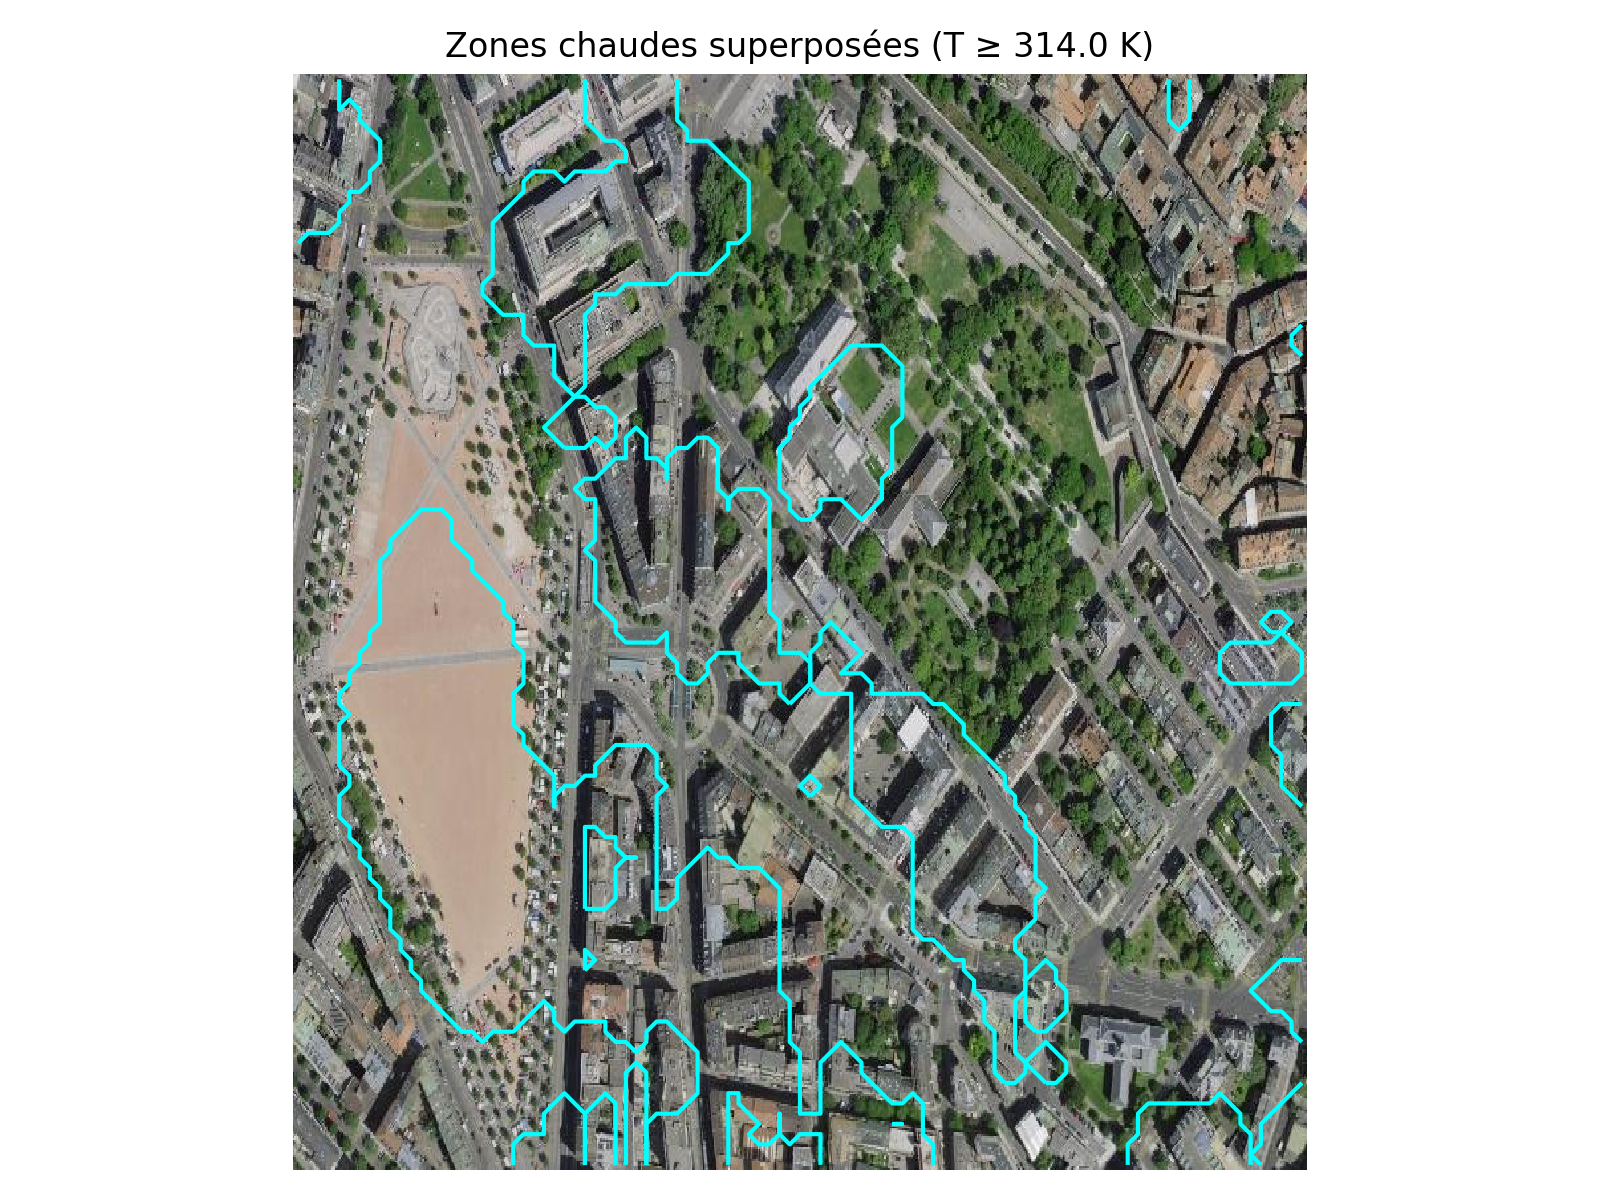
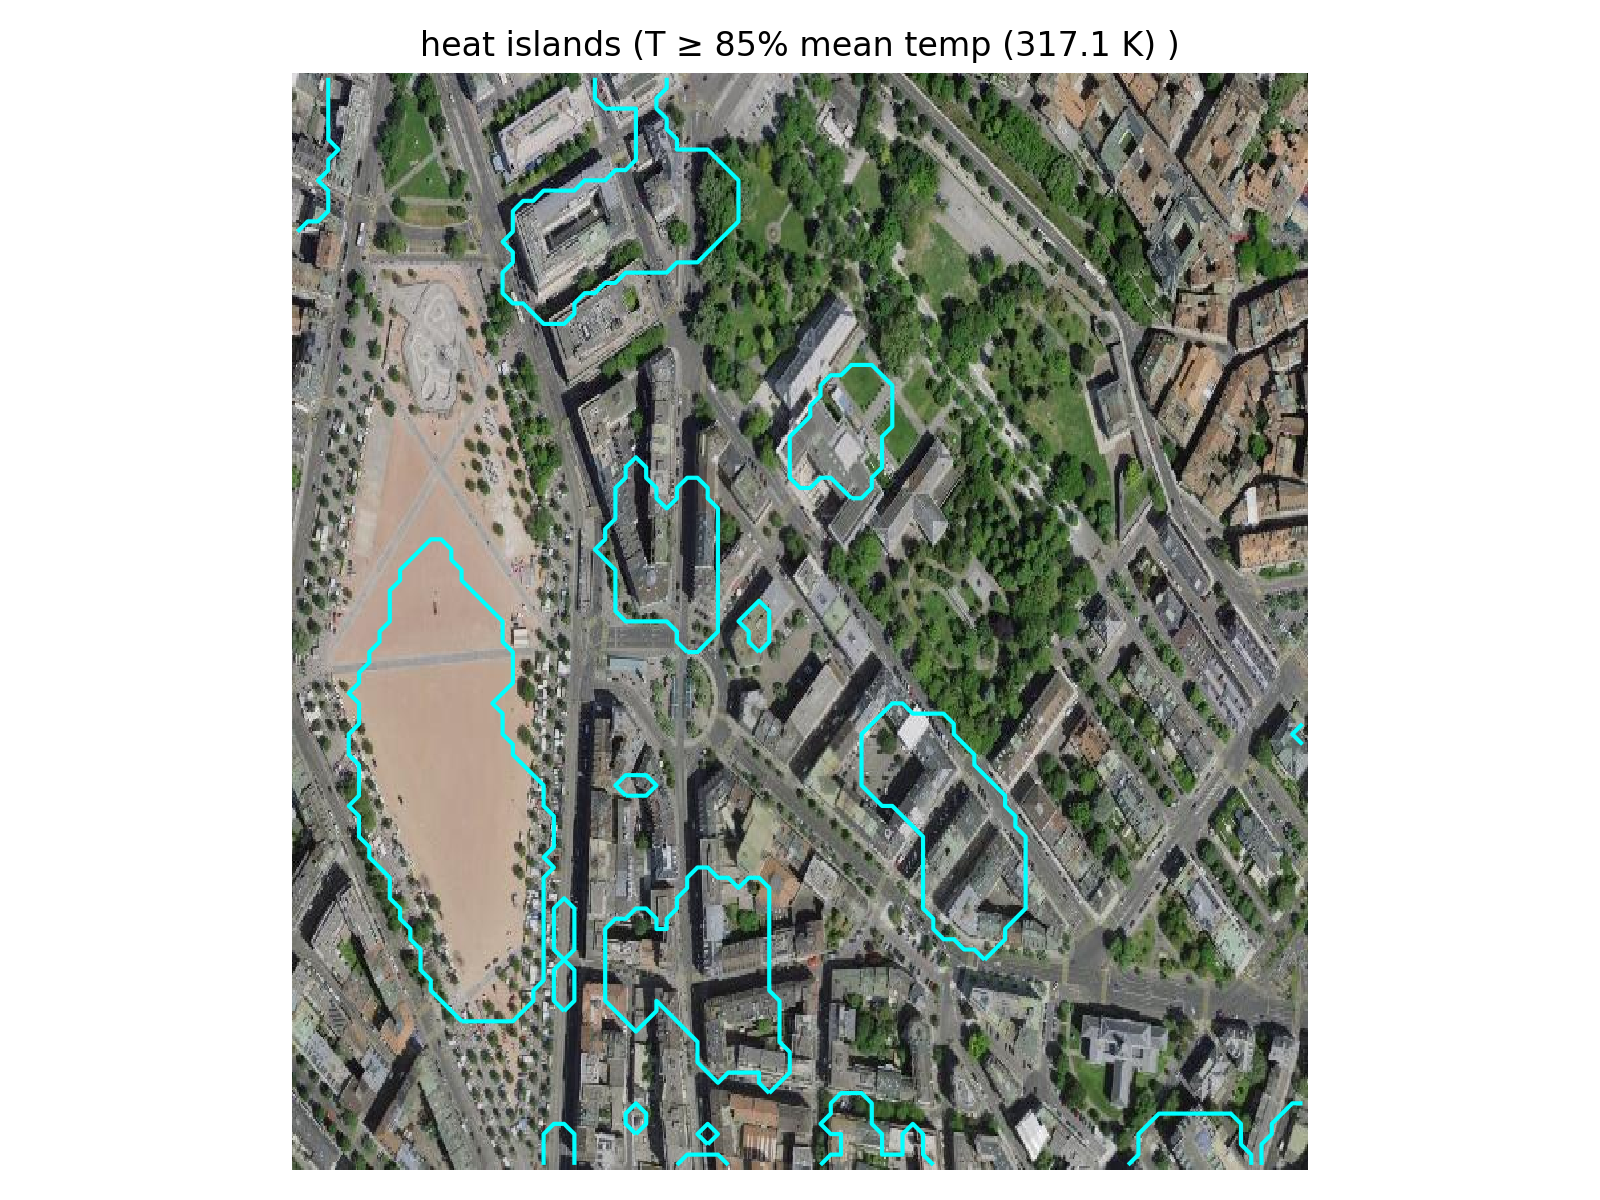
sh fini + modif mineurs

Changed region(s): [[0.1875, 0.0308, 0.8125, 0.9867]]

diff --git a/src/overlay.py b/src/overlay.py
@@ -5,24 +5,24 @@ from pathlib import Path
 from PIL import Image, ImageOps
 import sys
 
-# --- paramètres & chemins ---
+# paths
 projroot = Path(sys.path[0]).parent
-matrix_path = projroot / "data" / "temperature_matrixe.csv"
-pix_path = projroot / "data" / "image_pixellisee.jpg"
+matrix_path = projroot / "results" / "temperature_matrixe.csv"
+pix_path = projroot / "data" / "image_pixel.jpg"
 epfl_path = projroot / "data" / "epfl_sat.jpg"
 plainpalais_path = projroot / "data" / "plainpalais.jpg"
 out_tempmap_png = projroot / "results" / "tempmap.png"       # carte des températures
 out_overlay_png = projroot / "results" / "overlay_contours.png"  # superposition finale
 img = Image.open(pix_path)
 width, height = img.size
-# --- charge données ---
+# datas
 data = np.loadtxt(matrix_path, delimiter=",")
 
 data_img = Image.fromarray(data)
 data = np.array(data_img.resize((width, height), resample=Image.NEAREST))
 
 
-# Filtre moyenneur (si nécessaire)
+# mean filter
 def mean_filter_2d(arr, k=9):
     if k % 2 == 0:
         raise ValueError("k doit être impair")
@@ -40,24 +40,24 @@ smoothed_rot = np.rot90(smoothed, 2)
 fliped = np.fliplr(smoothed_rot)
 
 H, W = fliped.shape
-
-hot_threshold = 314.0
+#threshold 85%
+hot_threshold =  float(np.percentile(fliped, 85))
 hot_mask = fliped >= hot_threshold
 
-# === 1) Carte des températures (PNG) ===
+#tempmap
 plt.figure(figsize=(8, 6), dpi=200)
 im = plt.imshow(fliped, cmap="inferno", origin="lower", extent=(0, W, 0, H))
-cbar = plt.colorbar(im, label="Température (K)")
-plt.title(f"Carte de température (moyenne locale)")
+cbar = plt.colorbar(im, label="Temperature (K)")
+plt.title(f"Temperature map (local mean)")
 plt.axis("off")
 plt.tight_layout()
 plt.savefig(out_tempmap_png, dpi=200)
 plt.show()
 print(f"Carte des températures sauvegardée: {out_tempmap_png.resolve()}")
 
-# === 2) Superposition contours + image de fond (PNG) ===
+# overlay + jpg + flip
 sat_img = Image.open(plainpalais_path).convert("RGB")
-sat_img = ImageOps.flip(sat_img)  # flip vertical pour aligner
+sat_img = ImageOps.flip(sat_img)  
 sat_arr = np.array(sat_img)
 
 plt.figure(figsize=(8, 6), dpi=200)
@@ -70,57 +70,9 @@ plt.contour(
     origin="lower",
     extent=(0, W, 0, H)
 )
-plt.title(f"Zones chaudes superposées (T ≥ {hot_threshold:.1f} K)")
+plt.title(f"heat islands (T ≥ 85% mean temp ({hot_threshold:.1f} K) )")
 plt.axis("off")
 plt.tight_layout()
 plt.savefig(out_overlay_png, dpi=200)
 plt.show()
 print(f"Superposition sauvegardée: {out_overlay_png.resolve()}")
-
-"""
-
-# --- charge données ---
-data1 = np.loadtxt(path, delimiter=",")
-
-# Redimensionner la matrice à la taille de l'image
-data_img = Image.fromarray(data1)
-data_resized = np.array(data_img.resize((width, height), resample=Image.NEAREST))
-
-# Filtre moyenneur sur la matrice redimensionnée
-smoothed = mean_filter_2d(data_resized, k=21)
-smoothed_rot = np.rot90(smoothed, 2)
-fliped = np.fliplr(smoothed_rot)
-
-H, W = fliped.shape
-hot_threshold = 369.0
-hot_mask = fliped >= hot_threshold
-
-# === 1) Carte des températures ===
-plt.figure(figsize=(8, 6), dpi=200)
-im = plt.imshow(fliped, cmap="inferno", origin="lower")
-cbar = plt.colorbar(im, label="Température (K)")
-plt.title("Carte de température (moyenne locale)")
-plt.axis("off")
-plt.tight_layout()
-plt.savefig(out_tempmap_png, dpi=200)
-plt.show()
-
-# === 2) Superposition ===
-sat_img = Image.open(sat_path_2).convert("RGB")
-sat_img = ImageOps.flip(sat_img)  # flip vertical pour aligner
-sat_arr = np.array(sat_img)
-
-plt.figure(figsize=(8, 6), dpi=200)
-plt.imshow(sat_arr, origin="lower")  # pas besoin d'extent si tailles identiques
-plt.contour(
-    hot_mask.astype(int),
-    levels=[1],
-    colors="cyan",
-    linewidths=1.5,
-    origin="lower"
-)
-plt.title(f"Zones chaudes superposées (T ≥ {hot_threshold:.1f} K)")
-plt.axis("off")
-plt.tight_layout()
-plt.savefig(out_overlay_png, dpi=200)
-plt.show()"""

diff --git a/src/read_file.c b/src/read_file.c
@@ -9,12 +9,10 @@
 
 
 
-// ---- NOUVEAU : constants + stefan amélioré ----
-
 
 const double sigma = 5.67e-8;
 
-
+// ouvrir fichiers
 void lire_csv(const char *filename, double matrix[ROWS][COLS]) {
     FILE *file = fopen(filename, "r");
     if (file == NULL) {
@@ -40,7 +38,7 @@ void lire_csv(const char *filename, double matrix[ROWS][COLS]) {
     fclose(file);
     
 }
-
+//stefan
 
 double stefan_radiative_eq(double albedo, double emissivity,
                            double S_down, double Ta_K, double ea_Pa)
@@ -49,7 +47,7 @@ double stefan_radiative_eq(double albedo, double emissivity,
     double epsilon_a = 1.24 * pow(ea_mb / Ta_K, 1.0/7.0);
     if (epsilon_a > 1.0) epsilon_a = 1.0;
     if (epsilon_a < 0.0) epsilon_a = 0.0;
-    double L_down = epsilon_a * sigma * pow(Ta_K, 4.0) - 20;
+    double L_down = epsilon_a * sigma * pow(Ta_K, 4.0);
 
     double denom = emissivity * sigma;
     if (denom <= 0.0) denom = 1e-9;
@@ -58,11 +56,7 @@ double stefan_radiative_eq(double albedo, double emissivity,
     return pow(numerateur / denom, 0.25);
 }
 
-// ---- ta fonction lire_csv(...) inchangée ----
-
-// ---- variables globales si tu y tiens ----
-// double sigma = 5.67e-8;   // <- si tu l’avais ici, garde une seule définition
-
+//main
 int main() {
     double albedomatrix[ROWS][COLS];
     double emissivitymatrix[ROWS][COLS];
@@ -71,12 +65,12 @@ int main() {
     lire_csv("../data/albedo_matrix.csv", albedomatrix);
     lire_csv("../data/emissivity_matrix.csv", emissivitymatrix);
 
-    // ---- NOUVEAU : paramètres atmosphériques ----
+    // param
     double Ta_K   = 298.15;
     double ea_Pa  = 1500.0;
-    double S_down = 800.0;            // ou "rayonnement" si tu veux garder ta variable
+    double S_down = 800.0;           
 
-    // ---- NOUVELLE BOUCLE DE CALCUL ----
+   
     for (int i = 0; i < ROWS; i++) {
         for (int j = 0; j < COLS; j++) {
             double albedo    = albedomatrix[i][j];
@@ -86,8 +80,8 @@ int main() {
         }
     }
 
-    // ---- sortie CSV (nom corrigé) ----
-    FILE *fp = fopen("../data/temperature_matrixe.csv", "w");
+    //sortie CSV
+    FILE *fp = fopen("../results/temperature_matrixe.csv", "w");
     if (fp == NULL) {
         perror("Erreur lors de la création du fichier CSV");
         return 1;

diff --git a/src/pixel.py b/src/pixel.py
@@ -28,7 +28,7 @@ pixelated_image = np.kron(small_image, np.ones((h_step, w_step, 1)))
 #np.ones((h_step, w_step, 1)) : une matrice de 1 qui sert a repeter chaque pixel.
 #np.kron(A, B) : prend chaque element de A et le multiplie par la matrice B, ce qui revient a repliquer chaque pixel en un bloc.
 #chaque  pixel devient un gros carre-->agrandissement
-out_path1 = projroot / "data" / "image_pixellisee.jpg"
+out_path1 = projroot / "data" / "image_pixel.jpg"
 
 plt.imsave(out_path1, small_image.astype(np.uint8))
 sys.path.append(str(projroot / "src"))
